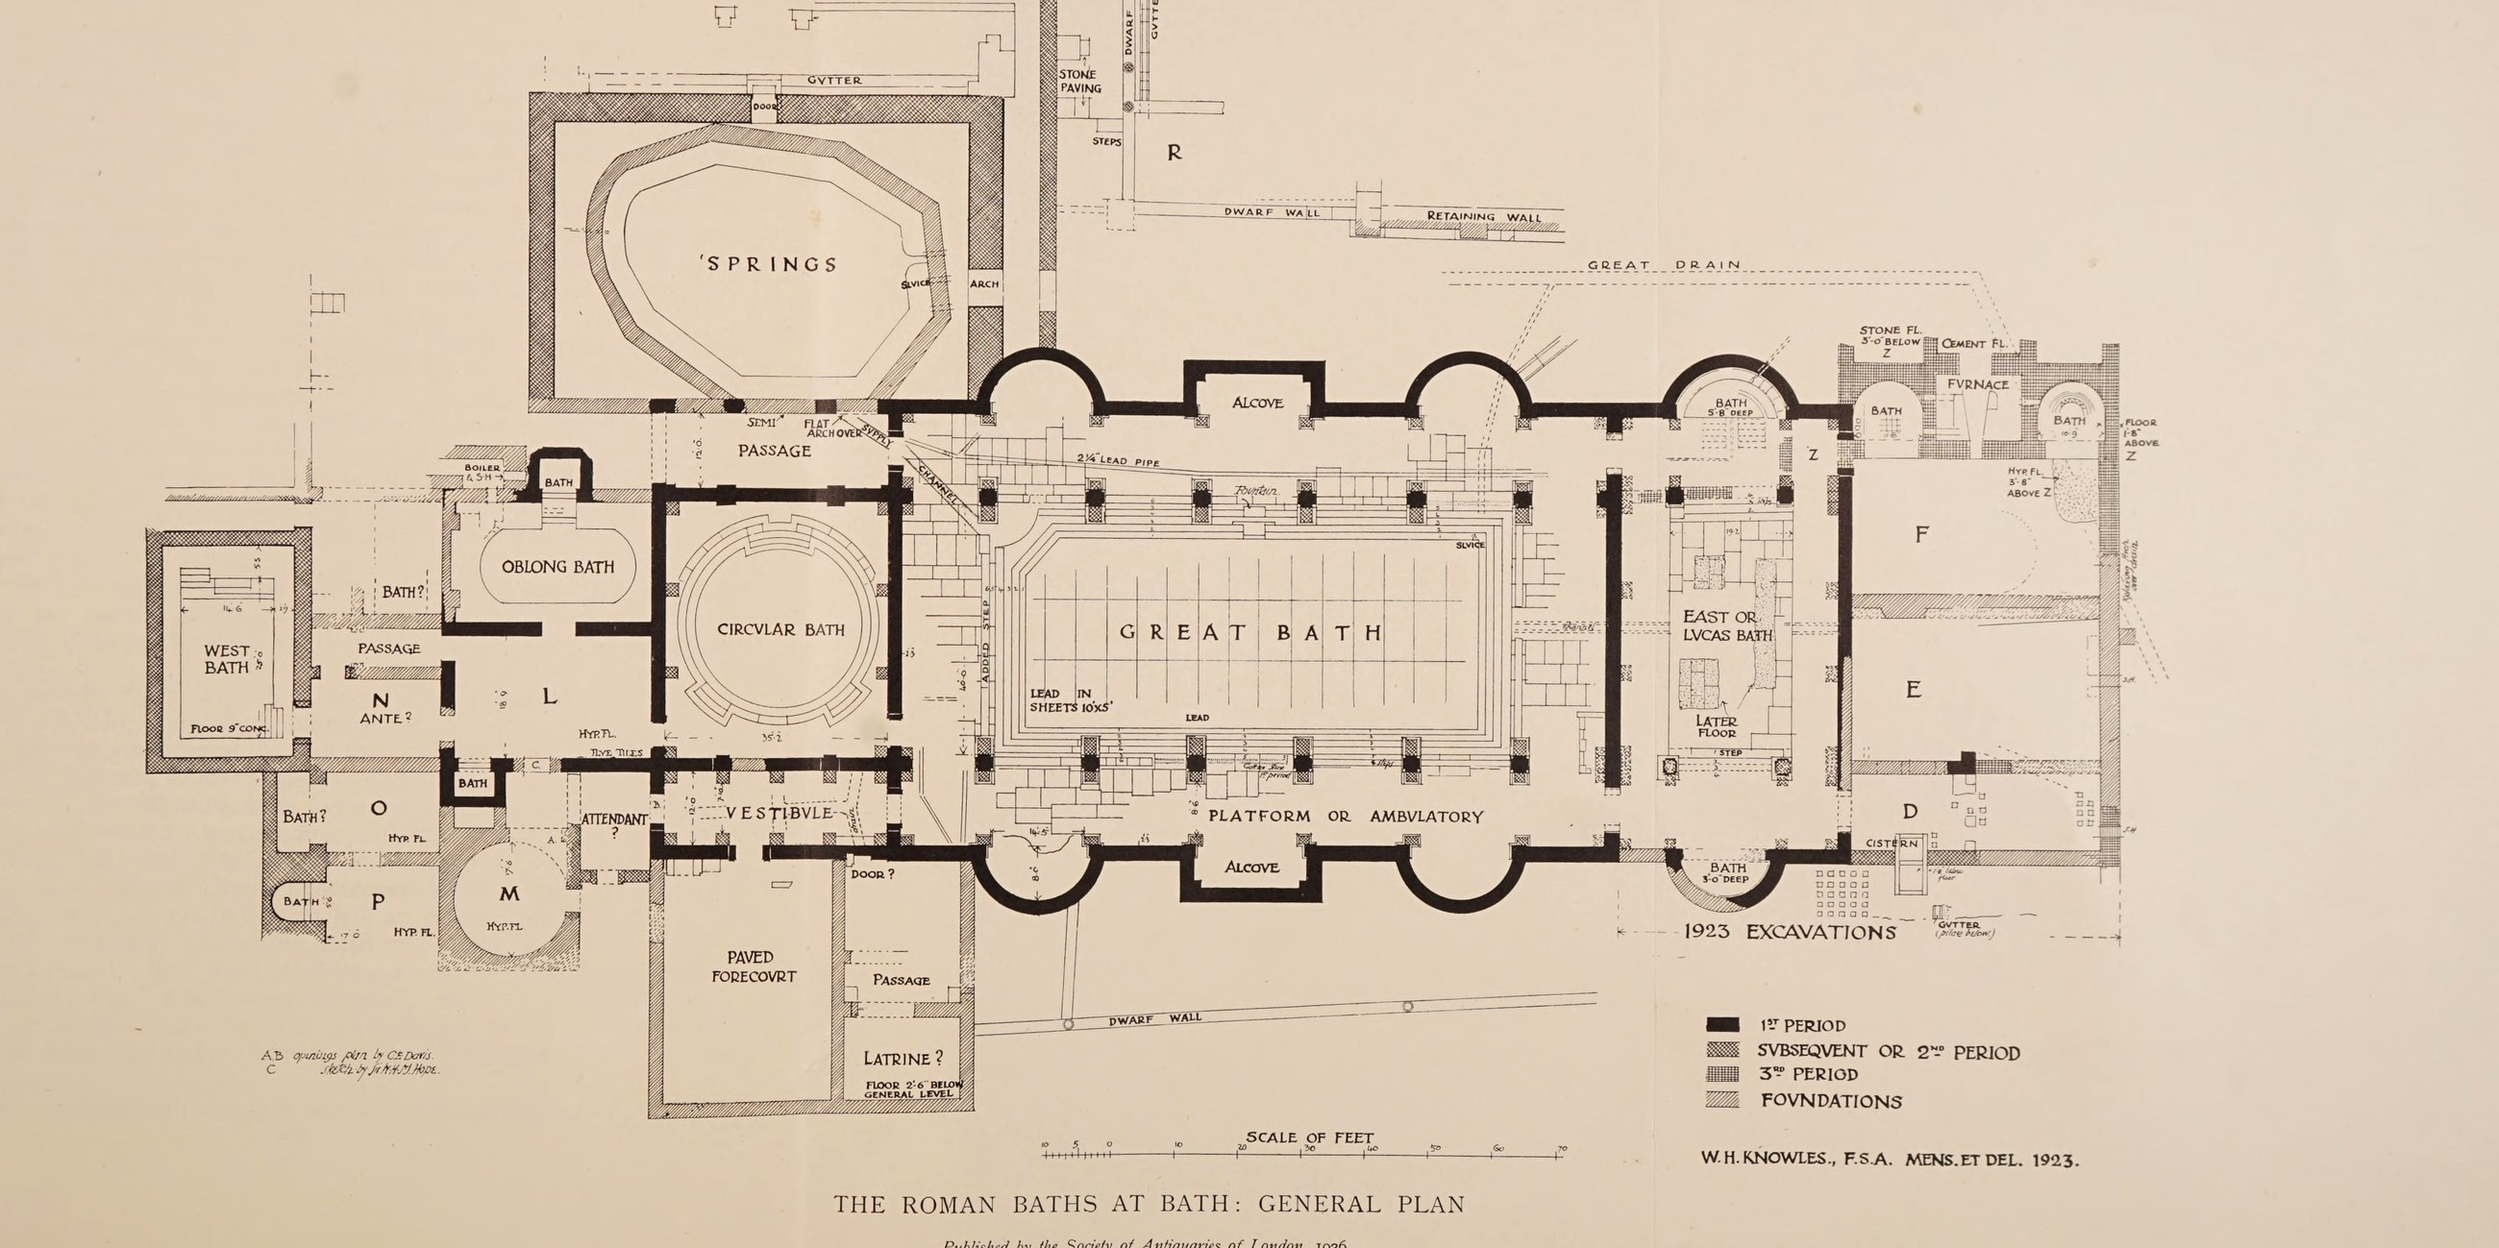
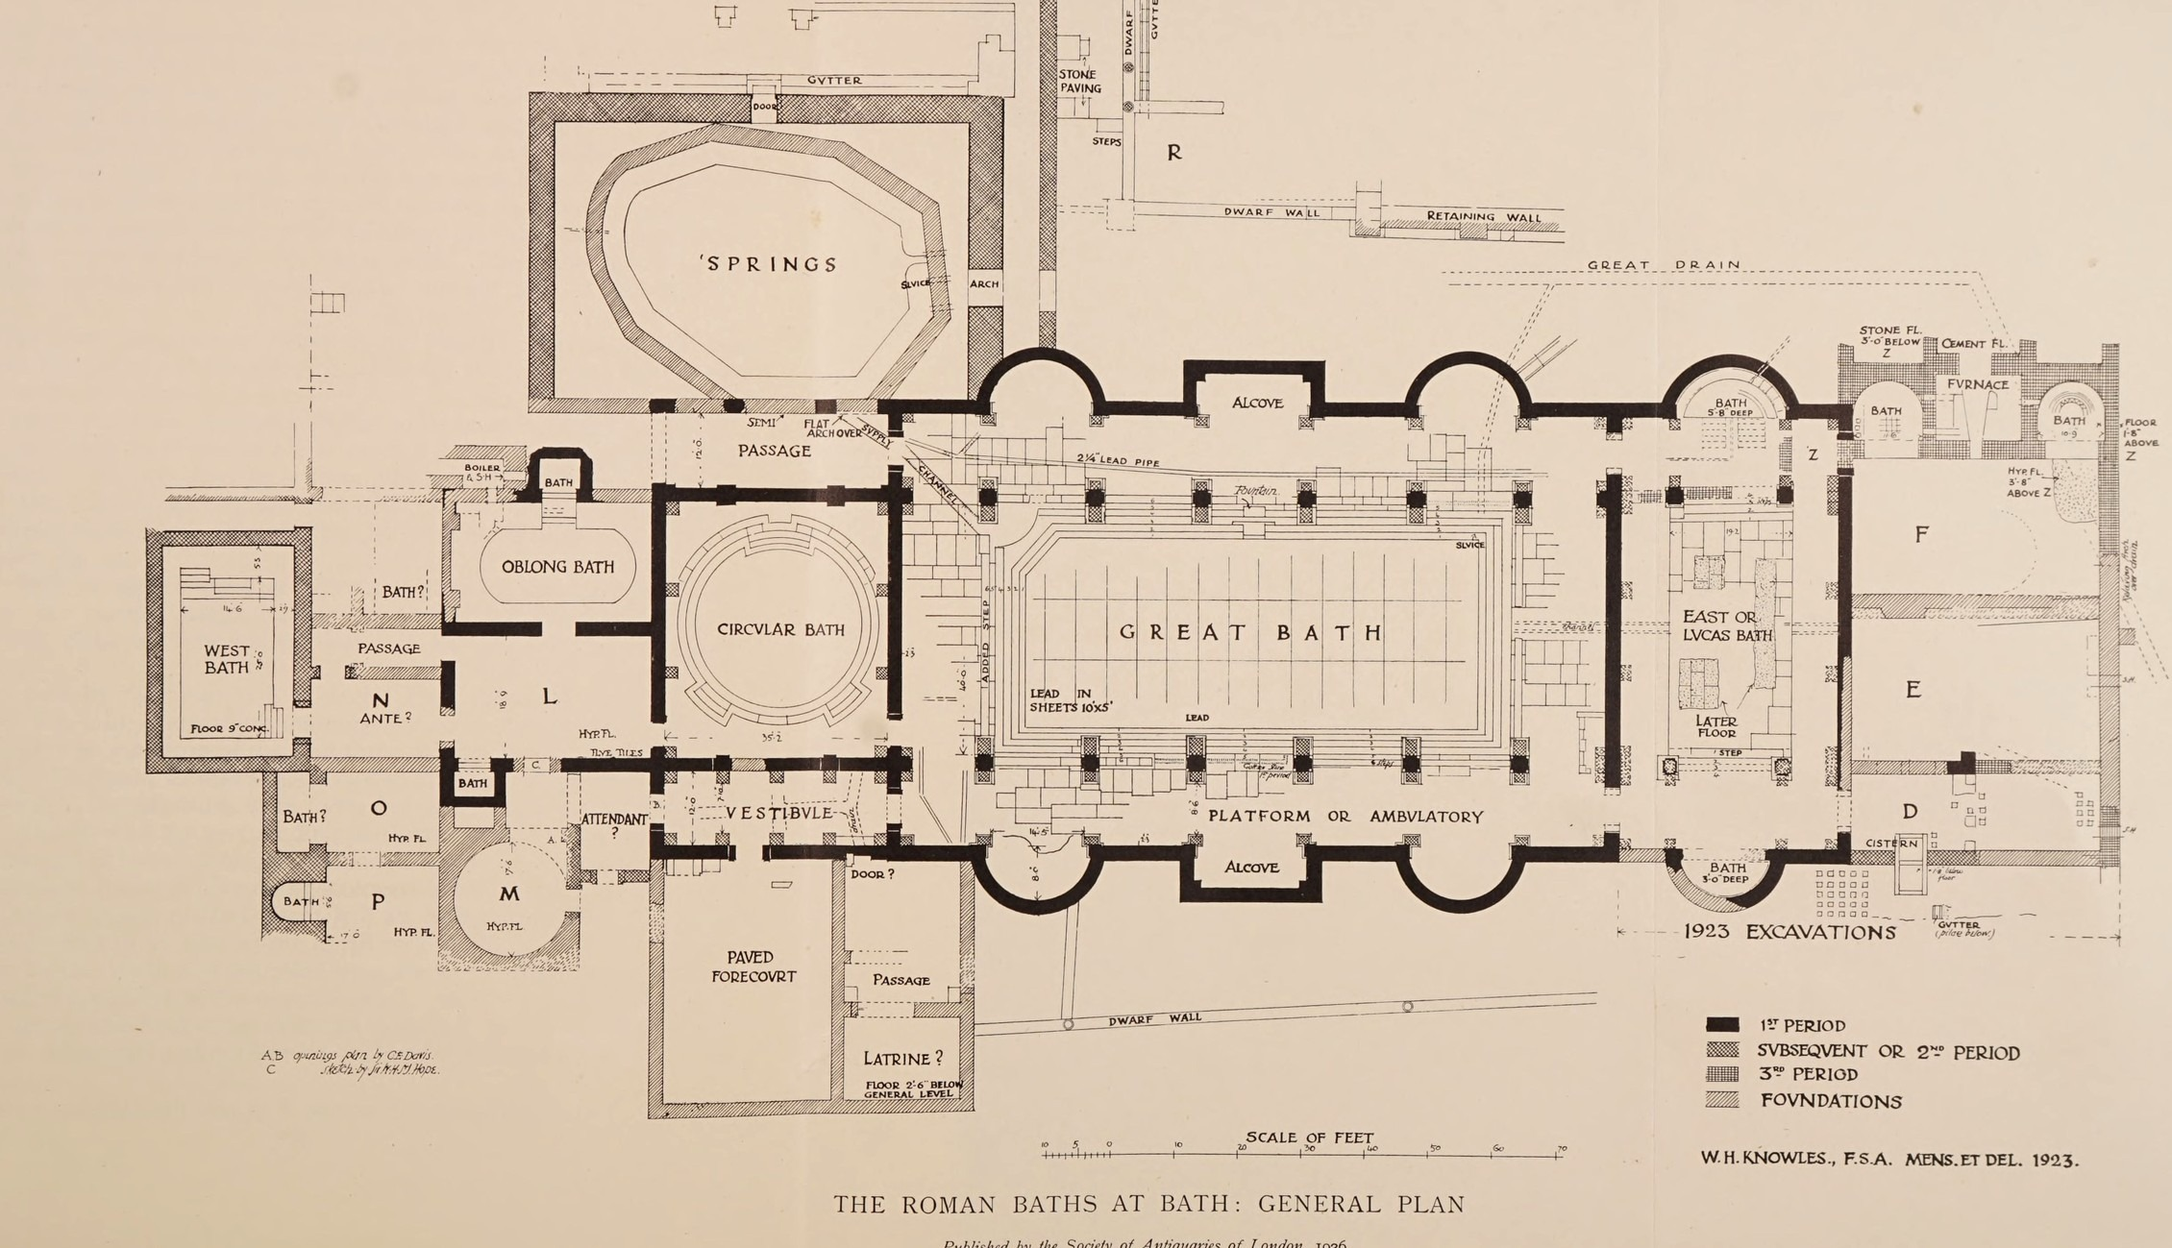
Fit Page 2 card to the map, crop empty plan margin, and unstack labels. (#77)
Make the intro panel the same height as the plan, trim unused paper on the right, fan pin names so they no longer cover each other, and keep 罗马排水渠 on one line.

diff --git a/index.html b/index.html
@@ -1,7 +1,7 @@
 <!DOCTYPE html>
 <html lang="en">
 <head>
-<!-- build: r57 -->
+<!-- build: r58 -->
 <meta charset="UTF-8"/>
 <meta name="viewport" content="width=device-width, initial-scale=1.0"/>
 <title>Medical Hero — CodePen KwNawQq Replica</title>
@@ -22,7 +22,7 @@
 <link rel="preconnect" href="https://fonts.googleapis.com">
 <link rel="preconnect" href="https://fonts.gstatic.com" crossorigin>
 <link href="https://fonts.googleapis.com/css2?family=Bebas+Neue&family=DM+Mono:ital,wght@0,300;0,400;0,500;1,300;1,400;1,500&family=Instrument+Serif:ital@0;1&family=Inter:wght@300;400;500&family=Noto+Sans+SC:wght@400;500;700&family=Noto+Serif+SC:wght@700&display=swap" rel="stylesheet">
-<link rel="stylesheet" href="./style.css?v=20260923r57"/>
+<link rel="stylesheet" href="./style.css?v=20260923r58"/>
 </head>
 <body>
 <div class="scroll-root">
@@ -328,29 +328,6 @@
 </section>
 <section class="scroll-page" id="page2" aria-label="游览路线">
   <div class="p2-map">
-    <div class="p2-stage">
-    <div class="p2-board" id="p2-board">
-      <img class="p2-plan" src="./assets/page2/roman-baths-plan.jpg" alt="巴斯罗马浴场总平面图">
-      <svg class="p2-route" viewBox="0 0 100 100" preserveAspectRatio="none" aria-hidden="true">
-        <path class="p2-route-full" id="p2-path-full" fill="none"></path>
-        <path class="p2-route-now" id="p2-path-now" fill="none"></path>
-      </svg>
-      <ol class="p2-pins">
-        <li><button class="p2-pin is-on" type="button" style="--x:18%; --y:22%" data-i="0" data-side="right" data-title="入口" data-body="从维多利亚接待大厅开始。免费领取语音导览，抬头看看绘有四季的穹顶。"><span class="p2-pin-dot">01</span><span class="p2-pin-name">入口</span></button></li>
-        <li><button class="p2-pin" type="button" style="--x:50%; --y:36%" data-i="1" data-side="right" data-title="露台" data-body="沿露台环绕大浴场。1894 年的罗马皇帝与总督雕像，是整座遗址给你的第一眼。"><span class="p2-pin-dot">02</span><span class="p2-pin-name">露台</span></button></li>
-        <li><button class="p2-pin" type="button" style="--x:16%; --y:40%" data-i="2" data-side="right" data-title="遇见罗马人" data-body="认识曾在此生活的人，以及温泉弯道上生长起来的阿奎苏利斯。"><span class="p2-pin-dot">03</span><span class="p2-pin-name">遇见罗马人</span></button></li>
-        <li><button class="p2-pin" type="button" style="--x:24%; --y:32%" data-i="3" data-side="right" data-title="神庙三角楣" data-body="不列颠仅有的古典神庙立面之一。巴斯石上的戈耳工之首，仍是苏利斯・密涅瓦的象征。"><span class="p2-pin-dot">04</span><span class="p2-pin-name">神庙三角楣</span></button></li>
-        <li><button class="p2-pin" type="button" style="--x:40%; --y:32%" data-i="4" data-side="bottom" data-title="阿奎苏利斯的人们" data-body="馆藏文物讲述居民与朝圣者的生活。波街窖藏有一万七千余枚罗马钱币。"><span class="p2-pin-dot">05</span><span class="p2-pin-name">阿奎苏利斯的人们</span></button></li>
-        <li><button class="p2-pin" type="button" style="--x:34%; --y:16%" data-i="5" data-side="right" data-title="罗马祭祀" data-body="神庙庭院里的私人祭坛、四季殿，以及投入圣泉的诅咒牌。"><span class="p2-pin-dot">06</span><span class="p2-pin-name">罗马祭祀</span></button></li>
-        <li><button class="p2-pin" type="button" style="--x:30%; --y:30%" data-i="6" data-side="right" data-title="神庙庭院" data-body="沿悬空步道进入献祭空间。密涅瓦鎏金头像与占卜祭司石碑都在这里。"><span class="p2-pin-dot">07</span><span class="p2-pin-name">神庙庭院</span></button></li>
-        <li><button class="p2-pin" type="button" style="--x:27%; --y:22%" data-i="7" data-side="left" data-title="圣泉" data-body="遗址的心脏。每日约 117 万升、46°C 的热水自地下涌出，两千年来未曾停歇。"><span class="p2-pin-dot">08</span><span class="p2-pin-name">圣泉</span></button></li>
-        <li><button class="p2-pin" type="button" style="--x:50%; --y:48%" data-i="8" data-side="bottom" data-title="大浴场" data-body="铅板铺底、深 1.6 米的蒸汽热池。当年的拱顶高达二十米，是整座浴场的中心。"><span class="p2-pin-dot">09</span><span class="p2-pin-name">大浴场</span></button></li>
-        <li><button class="p2-pin" type="button" style="--x:68%; --y:50%" data-i="9" data-side="bottom" data-title="更衣室与桑拿" data-body="东侧温水池由大浴场管道供水，加热房间一直扩建到四世纪。"><span class="p2-pin-dot">10</span><span class="p2-pin-name">更衣室与桑拿</span></button></li>
-        <li><button class="p2-pin" type="button" style="--x:31%; --y:48%" data-i="10" data-side="bottom" data-title="热室与冷水池" data-body="西侧地暖柱墩与深 1.6 米的圆形冷水浸浴。热后骤冷，神志重新清醒。"><span class="p2-pin-dot">11</span><span class="p2-pin-name">热室与冷水池</span></button></li>
-        <li><button class="p2-pin" type="button" style="--x:10%; --y:54%" data-i="11" data-side="right" data-title="温泉水泉" data-body="品尝含 43 种矿物质的巴斯泉水。两千年来，人们为疗愈而来。"><span class="p2-pin-dot">12</span><span class="p2-pin-name">温泉水泉</span></button></li>
-      </ol>
-    </div>
-    </div>
     <aside class="p2-card">
       <p class="p2-kicker">探索巴斯</p>
       <h2>不知从何游览？</h2>
@@ -362,6 +339,29 @@
       </div>
       <button class="p2-cta" type="button">开始游览</button>
     </aside>
+    <div class="p2-stage">
+    <div class="p2-board" id="p2-board">
+      <img class="p2-plan" src="./assets/page2/roman-baths-plan.jpg" alt="巴斯罗马浴场总平面图">
+      <svg class="p2-route" viewBox="0 0 100 100" preserveAspectRatio="none" aria-hidden="true">
+        <path class="p2-route-full" id="p2-path-full" fill="none"></path>
+        <path class="p2-route-now" id="p2-path-now" fill="none"></path>
+      </svg>
+      <ol class="p2-pins">
+        <li><button class="p2-pin is-on" type="button" style="--x:20.7%; --y:22%" data-i="0" data-side="left" data-title="入口" data-body="从维多利亚接待大厅开始。免费领取语音导览，抬头看看绘有四季的穹顶。"><span class="p2-pin-dot">01</span><span class="p2-pin-name">入口</span></button></li>
+        <li><button class="p2-pin" type="button" style="--x:57.5%; --y:36%" data-i="1" data-side="top" data-title="露台" data-body="沿露台环绕大浴场。1894 年的罗马皇帝与总督雕像，是整座遗址给你的第一眼。"><span class="p2-pin-dot">02</span><span class="p2-pin-name">露台</span></button></li>
+        <li><button class="p2-pin" type="button" style="--x:18.4%; --y:40%" data-i="2" data-side="bottom" data-title="遇见罗马人" data-body="认识曾在此生活的人，以及温泉弯道上生长起来的阿奎苏利斯。"><span class="p2-pin-dot">03</span><span class="p2-pin-name">遇见罗马人</span></button></li>
+        <li><button class="p2-pin" type="button" style="--x:27.6%; --y:33%" data-i="3" data-side="left" data-title="神庙三角楣" data-body="不列颠仅有的古典神庙立面之一。巴斯石上的戈耳工之首，仍是苏利斯・密涅瓦的象征。"><span class="p2-pin-dot">04</span><span class="p2-pin-name">神庙三角楣</span></button></li>
+        <li><button class="p2-pin" type="button" style="--x:46%; --y:32%" data-i="4" data-side="bottom" data-title="阿奎苏利斯的人们" data-body="馆藏文物讲述居民与朝圣者的生活。波街窖藏有一万七千余枚罗马钱币。"><span class="p2-pin-dot">05</span><span class="p2-pin-name">阿奎苏利斯的人们</span></button></li>
+        <li><button class="p2-pin" type="button" style="--x:39.1%; --y:14%" data-i="5" data-side="right" data-title="罗马祭祀" data-body="神庙庭院里的私人祭坛、四季殿，以及投入圣泉的诅咒牌。"><span class="p2-pin-dot">06</span><span class="p2-pin-name">罗马祭祀</span></button></li>
+        <li><button class="p2-pin" type="button" style="--x:35.8%; --y:29%" data-i="6" data-side="right" data-title="神庙庭院" data-body="沿悬空步道进入献祭空间。密涅瓦鎏金头像与占卜祭司石碑都在这里。"><span class="p2-pin-dot">07</span><span class="p2-pin-name">神庙庭院</span></button></li>
+        <li><button class="p2-pin" type="button" style="--x:31.1%; --y:20%" data-i="7" data-side="top" data-title="圣泉" data-body="遗址的心脏。每日约 117 万升、46°C 的热水自地下涌出，两千年来未曾停歇。"><span class="p2-pin-dot">08</span><span class="p2-pin-name">圣泉</span></button></li>
+        <li><button class="p2-pin" type="button" style="--x:57.5%; --y:50%" data-i="8" data-side="bottom" data-title="大浴场" data-body="铅板铺底、深 1.6 米的蒸汽热池。当年的拱顶高达二十米，是整座浴场的中心。"><span class="p2-pin-dot">09</span><span class="p2-pin-name">大浴场</span></button></li>
+        <li><button class="p2-pin" type="button" style="--x:78.2%; --y:50%" data-i="9" data-side="bottom" data-title="更衣室与桑拿" data-body="东侧温水池由大浴场管道供水，加热房间一直扩建到四世纪。"><span class="p2-pin-dot">10</span><span class="p2-pin-name">更衣室与桑拿</span></button></li>
+        <li><button class="p2-pin" type="button" style="--x:35.6%; --y:50%" data-i="10" data-side="bottom" data-title="热室与冷水池" data-body="西侧地暖柱墩与深 1.6 米的圆形冷水浸浴。热后骤冷，神志重新清醒。"><span class="p2-pin-dot">11</span><span class="p2-pin-name">热室与冷水池</span></button></li>
+        <li><button class="p2-pin" type="button" style="--x:11.5%; --y:54%" data-i="11" data-side="right" data-title="温泉水泉" data-body="品尝含 43 种矿物质的巴斯泉水。两千年来，人们为疗愈而来。"><span class="p2-pin-dot">12</span><span class="p2-pin-name">温泉水泉</span></button></li>
+      </ol>
+    </div>
+    </div>
   </div>
 </section>
 <section class="scroll-page" id="page3" aria-label="罗马圣泉">
@@ -955,6 +955,6 @@
 </div>
 <script src="./vendor/gsap.min.js?v=20260922r9"></script>
 <script src="./vendor/ScrollTrigger.min.js?v=20260922r9"></script>
-<script src="./script.js?v=20260923r57"></script>
+<script src="./script.js?v=20260923r58"></script>
 </body>
 </html>

diff --git a/style.css b/style.css
@@ -448,10 +448,13 @@ body.p4-detail-open.header-docked .header {
   pointer-events: none;
 }
 
+body.header-docked #page2 .p2-map {
+  padding-top: var(--header-top, 20px);
+  padding-left: var(--header-left, 20px);
+}
+
 body.header-docked #page2 .p2-card {
-  top: var(--header-top, 20px);
-  left: var(--header-left, 20px);
-  padding: 0 1.3rem 1.1rem;
+  padding-top: 0;
 }
 
 body.header-docked #page2 .p2-kicker {
@@ -1355,27 +1358,31 @@ html, body { height: 100%; margin: 0; }
 .p2-map {
   position: relative;
   height: 100%;
+  display: flex;
+  align-items: flex-start;
+  gap: 1.15rem;
+  padding: 1.1rem 1.1rem 1.1rem 1.15rem;
   overflow: hidden;
   background: #e6d9c4;
+  box-sizing: border-box;
 }
 
 .p2-stage {
-  position: absolute;
-  left: calc(min(22.5rem, 34%) + 1.8rem);
-  right: 1.1rem;
-  top: 1.1rem;
-  bottom: 1.1rem;
+  position: relative;
+  flex: 1 1 auto;
+  align-self: stretch;
+  min-width: 0;
+  min-height: 0;
   container-type: size;
 }
 
 .p2-board {
-  --ar: 2.00144;
+  --ar: 1.7398;
   position: absolute;
-  left: 50%;
-  top: 50%;
+  left: 0;
+  top: 0;
   width: min(100cqw, calc(100cqh * var(--ar)));
   height: min(100cqh, calc(100cqw / var(--ar)));
-  transform: translate(-50%, -50%);
 }
 
 .p2-plan {
@@ -1561,6 +1568,12 @@ html, body { height: 100%; margin: 0; }
   transform: translateX(-50%);
 }
 
+.p2-pin[data-side="top"] .p2-pin-name {
+  bottom: calc(100% + 0.38rem);
+  left: 50%;
+  transform: translateX(-50%);
+}
+
 .p2-pin.is-on .p2-pin-name {
   font-weight: 600;
   background: var(--card);
@@ -1568,14 +1581,15 @@ html, body { height: 100%; margin: 0; }
 }
 
 .p2-card {
-  position: absolute;
-  left: 1.15rem;
-  top: 1.1rem;
+  position: relative;
   z-index: 6;
+  flex: 0 0 min(22.5rem, 34%);
   width: min(22.5rem, 34%);
+  align-self: flex-start;
   display: flex;
   flex-direction: column;
   min-width: 0;
+  min-height: 0;
   padding: 1.2rem 1.3rem 1.1rem;
   border-radius: 1.05rem;
   background: color-mix(in srgb, #fff 88%, transparent);
@@ -1616,7 +1630,7 @@ html, body { height: 100%; margin: 0; }
 }
 
 .p2-now {
-  margin-top: 0.95rem;
+  margin-top: auto;
   padding-top: 0.9rem;
   border-top: 1px solid rgba(26, 25, 21, 0.12);
 }
@@ -1673,25 +1687,22 @@ html, body { height: 100%; margin: 0; }
 }
 
 @media (max-width: 56.25em) {
+  .p2-map {
+    flex-direction: column;
+    padding: 0.6rem;
+    gap: 0.55rem;
+  }
   .p2-stage {
-    left: 0.6rem;
-    right: 0.6rem;
-    top: 0.6rem;
-    bottom: 48%;
+    flex: 1 1 54%;
   }
   .p2-card {
-    left: 0.7rem;
-    right: 0.7rem;
-    top: auto;
-    bottom: 0.7rem;
+    flex: 0 0 auto;
     width: auto;
-    max-height: 46%;
+    max-height: 42%;
     padding: 0.95rem 1rem 1rem;
   }
   body.header-docked #page2 .p2-card {
-    top: auto;
-    left: 0.7rem;
-    padding: 0.95rem 1rem 1rem;
+    padding-top: 0.95rem;
   }
   body.header-docked #page2 .p2-kicker {
     min-height: 0;
@@ -1699,6 +1710,7 @@ html, body { height: 100%; margin: 0; }
     padding: 0;
   }
   .p2-body { display: none; }
+  .p2-now { margin-top: 0.55rem; }
   .p2-pin-name { display: none; }
   .p2-pin.is-on .p2-pin-name { display: inline-flex; }
 }
@@ -1766,7 +1778,7 @@ html, body { height: 100%; margin: 0; }
   z-index: 2;
   height: 100%;
   display: grid;
-  grid-template-columns: 7.2rem minmax(0, 28rem);
+  grid-template-columns: 10.5rem minmax(0, 28rem);
   gap: 1.25rem;
   padding: 8vh 4vw 7vh;
   align-items: stretch;
@@ -1789,8 +1801,9 @@ html, body { height: 100%; margin: 0; }
   font-family: "Noto Sans SC", sans-serif;
   font-size: 0.92rem;
   font-weight: 500;
-  letter-spacing: 0.16em;
+  letter-spacing: 0.1em;
   text-align: left;
+  white-space: nowrap;
   border-left: 1px solid rgba(232, 228, 220, 0.14);
   padding-left: 0.85rem;
   transition: color 0.4s ease, border-color 0.4s ease, transform 0.4s ease;
@@ -2136,6 +2149,7 @@ html, body { height: 100%; margin: 0; }
     border-left: 0;
     border-bottom: 1px solid rgba(232, 228, 220, 0.14);
     padding-left: 0;
+    white-space: nowrap;
   }
   .p3-step.is-on { transform: none; border-bottom-color: #7ec8cf; }
   .pt-col.is-on .pt-copy { max-height: 34%; }

diff --git a/script.js b/script.js
@@ -1322,6 +1322,8 @@
   const titleEl = document.getElementById('p2-stop-title');
   const bodyEl = document.getElementById('p2-stop-body');
   const cta = root.querySelector('.p2-cta');
+  const card = root.querySelector('.p2-card');
+  const stage = root.querySelector('.p2-stage');
   const total = pins.length;
   let i = 0;
   let busy = false;
@@ -1421,16 +1423,35 @@
     board.classList.add('is-spread');
   };
 
+  const fitCard = () => {
+    if (!card) return;
+    if (window.matchMedia('(max-width: 56.25em)').matches) {
+      card.style.height = '';
+      return;
+    }
+    if (!board) return;
+    const h = board.getBoundingClientRect().height;
+    card.style.height = h ? `${Math.round(h)}px` : '';
+  };
+
   window.page2OnWheel = (dir) => move(dir);
   window.page2SetEntry = (dir) => {
     busy = false;
     show(dir > 0 ? 0 : total - 1);
     spread();
+    requestAnimationFrame(fitCard);
   };
 
   layoutPath();
   show(0);
-  requestAnimationFrame(spread);
+  requestAnimationFrame(() => {
+    spread();
+    fitCard();
+  });
+  if (stage && typeof ResizeObserver !== 'undefined') {
+    new ResizeObserver(fitCard).observe(stage);
+  }
+  window.addEventListener('resize', fitCard);
 })();
 
 /* ════════════════════════════════════════════════
